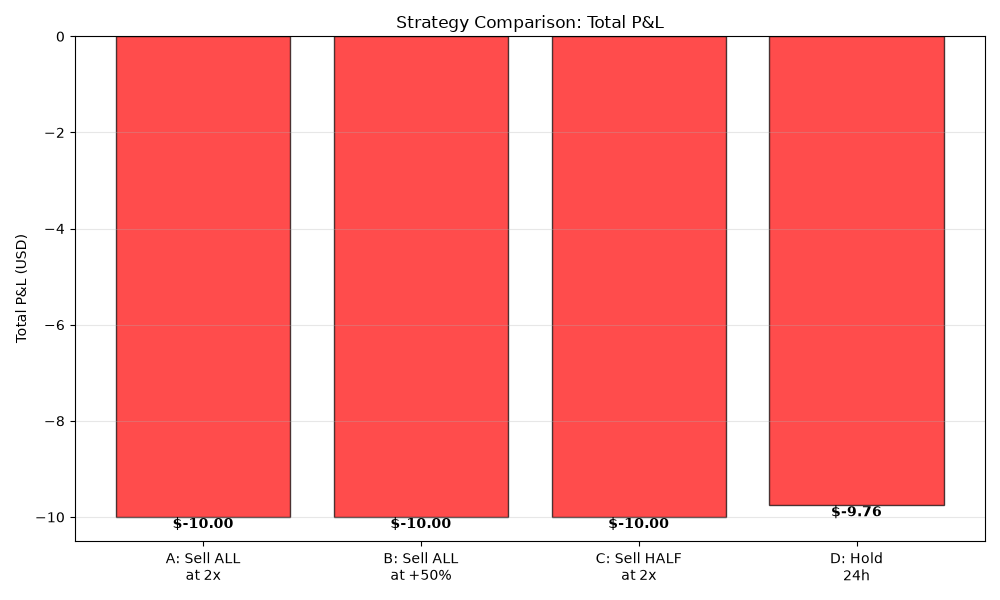
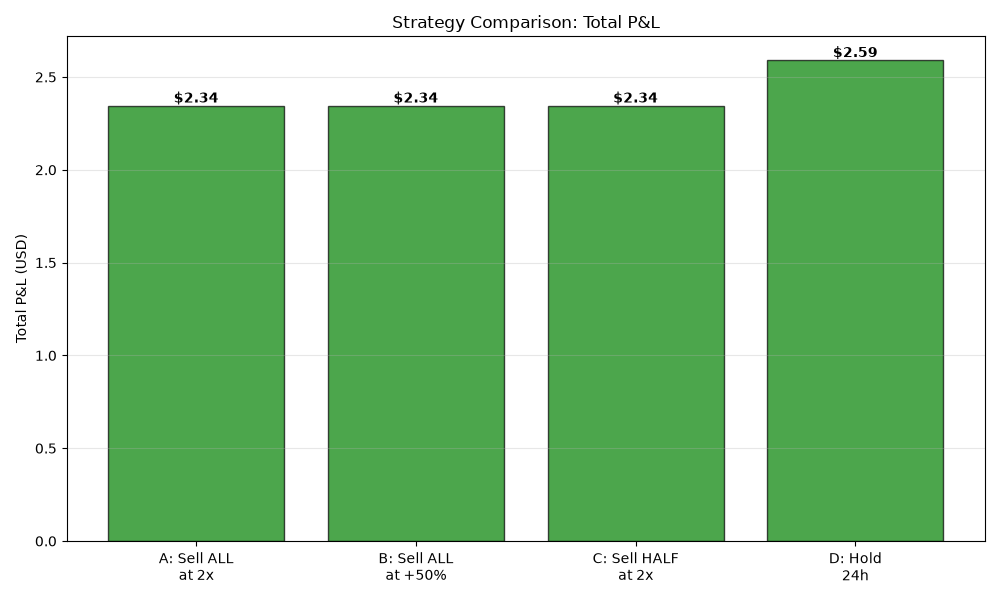
Fix: pump.fun bonding curve tokens incorrectly marked as dead (#2)
ISSUE:
- purr (9oJvYRC...) was marked 'dead' despite being +11% from alert
- Never approached -50% stop loss (min: -1.8%)
- DexScreener reports liq=0 for unmigrated pump.fun tokens
- Dashboard showed -$10 loss instead of actual +$2.34 gain

ROOT CAUSE:
- Status determination only checked liq >= $1k
- Bonding curve tokens always have liq=0 until migration
- Code incorrectly treated liq=0 as 'dead'

FIX:
1. Enhanced fetch_price_pumpfun() to return bonding curve status
2. Check pump.fun API 'complete' flag to detect unmigrated tokens
3. Updated status logic:
   - price=0 anywhere → dead
   - on_bonding_curve=true → active (regardless of liq)
   - price>0 AND liq=0 → active (likely bonding curve, API may have failed)
   - liq >= $1k → active
   - liq > 0 AND < $1k → dead (migrated but dried up)
4. Added regression test verifying bonding curve tokens show correct P&L

RESULT:
- purr now correctly marked 'active' with +$2.34 P&L
- max_multiple: 1.27x (up from incorrect 'dead' status)
- All 10 tests passing including new regression test

diff --git a/dashboard/index.html b/dashboard/index.html
@@ -224,7 +224,7 @@
     <div class="container">
         <header>
             <h1>📊 Memecoin Paper-Trading Dashboard</h1>
-            <p>Last Updated: 2026-10-20 09:57 CEST</p>
+            <p>Last Updated: 2026-10-20 10:01 CEST</p>
         </header>
         
         <div class="warning">
@@ -232,7 +232,7 @@
         </div>
         
         <div class="best-strategy">
-            🏆 Current Best Performer: D: Hold 24h ($-9.76 Total P&L)
+            🏆 Current Best Performer: D: Hold 24h ($2.59 Total P&L)
         </div>
         
         <div class="info-box">
@@ -248,42 +248,42 @@
         <div class="stats">
             <div class="stat-card ">
                 <h3>Strategy A: Sell ALL at 2x</h3>
-                <div class="value loss">
-                    $-10.00
+                <div class="value profit">
+                    $2.34
                 </div>
                 <div class="details">
-                    Win Rate: 0.0%<br>
-                    Avg: $-10.00
+                    Win Rate: 100.0%<br>
+                    Avg: $2.34
                 </div>
             </div>
             <div class="stat-card ">
                 <h3>Strategy B: Sell ALL at +50%</h3>
-                <div class="value loss">
-                    $-10.00
+                <div class="value profit">
+                    $2.34
                 </div>
                 <div class="details">
-                    Win Rate: 0.0%<br>
-                    Avg: $-10.00
+                    Win Rate: 100.0%<br>
+                    Avg: $2.34
                 </div>
             </div>
             <div class="stat-card ">
                 <h3>Strategy C: Sell HALF at 2x</h3>
-                <div class="value loss">
-                    $-10.00
+                <div class="value profit">
+                    $2.34
                 </div>
                 <div class="details">
-                    Win Rate: 0.0%<br>
-                    Avg: $-10.00
+                    Win Rate: 100.0%<br>
+                    Avg: $2.34
                 </div>
             </div>
             <div class="stat-card best">
                 <h3>Strategy D: Hold 24h</h3>
-                <div class="value loss">
-                    $-9.76
+                <div class="value profit">
+                    $2.59
                 </div>
                 <div class="details">
-                    Win Rate: 0.0%<br>
-                    Avg: $-9.76
+                    Win Rate: 100.0%<br>
+                    Avg: $2.59
                 </div>
             </div>
         </div>
@@ -324,10 +324,10 @@
                 <a href="https://dexscreener.com/solana/9oJvYRC2UBLbUShDBnzhNVcJaAffYANPmDHmgf9Lpump" target="_blank">DEX</a>
             </td>
             <td>new</td>
-            <td>1.11x</td>
-            <td class="loss">$-10.00</td>
+            <td>1.27x</td>
+            <td class="profit">$2.34</td>
             <td>$0.00</td>
-            <td>$-10.00</td>
+            <td>$2.34</td>
             <td></td>
             <td></td>
         </tr>

diff --git a/scripts/refresh.py b/scripts/refresh.py
@@ -86,8 +86,11 @@ def fetch_price_geckoterminal(ca: str) -> Optional[Tuple[float, float, float]]:
         return None
 
 
-def fetch_price_pumpfun(ca: str) -> Optional[Tuple[float, float, float]]:
-    """Fetch from pump.fun. Returns (price_usd, mc_usd, liq_usd) or None."""
+def fetch_price_pumpfun(ca: str) -> Optional[Tuple[float, float, float, bool]]:
+    """
+    Fetch from pump.fun. Returns (price_usd, mc_usd, liq_usd, on_bonding_curve) or None.
+    on_bonding_curve=True means token is still on pump.fun and hasn't migrated yet.
+    """
     data = fetch_with_retry(f"{PUMPFUN_BASE}{ca}")
     if not data:
         return None
@@ -96,7 +99,9 @@ def fetch_price_pumpfun(ca: str) -> Optional[Tuple[float, float, float]]:
         price = float(data.get("usd_market_cap", 0)) / float(data.get("total_supply", 1))
         mc = float(data.get("usd_market_cap", 0))
         liq = float(data.get("virtual_sol_reserves", 0)) * 180  # rough SOL price estimate
-        return (price, mc, liq)
+        # Check if still on bonding curve (not migrated to Raydium)
+        on_bonding_curve = not data.get("complete", False)
+        return (price, mc, liq, on_bonding_curve)
     except (ValueError, TypeError, KeyError, ZeroDivisionError):
         return None
 
@@ -138,6 +143,7 @@ def fetch_current_price(ca: str, alert_time: str) -> Dict:
         "current_mc_usd": 0.0,
         "current_liq_usd": 0.0,
         "status": "dead",
+        "on_bonding_curve": False,
     }
     
     print(f"Fetching {ca}...")
@@ -157,12 +163,35 @@ def fetch_current_price(ca: str, alert_time: str) -> Dict:
     if result["current_price_usd"] == 0:
         data = fetch_price_pumpfun(ca)
         if data:
-            result["current_price_usd"], result["current_mc_usd"], result["current_liq_usd"] = data
+            result["current_price_usd"], result["current_mc_usd"], result["current_liq_usd"], result["on_bonding_curve"] = data
+    else:
+        # Even if we got price from DexScreener/GeckoTerminal, check pump.fun for bonding curve status
+        pumpfun_data = fetch_price_pumpfun(ca)
+        if pumpfun_data:
+            # Use pump.fun bonding curve status if available
+            result["on_bonding_curve"] = pumpfun_data[3]
+            # If pump.fun has a price and we're on bonding curve, prefer pump.fun data
+            if result["on_bonding_curve"] and pumpfun_data[0] > 0:
+                result["current_price_usd"] = pumpfun_data[0]
+                result["current_mc_usd"] = pumpfun_data[1]
+                result["current_liq_usd"] = pumpfun_data[2]
     
-    # Determine status
-    if result["current_liq_usd"] >= 1000 and result["current_price_usd"] > 0:
+    # Determine status with proper bonding curve handling
+    if result["current_price_usd"] == 0:
+        # No price data from any source - definitely dead
+        result["status"] = "dead"
+    elif result["on_bonding_curve"]:
+        # Still on pump.fun bonding curve - treat as active regardless of liquidity
+        result["status"] = "active"
+    elif result["current_liq_usd"] == 0 and result["current_price_usd"] > 0:
+        # Has price but no liquidity - likely still on bonding curve (pump.fun API may have failed)
+        # Treat as active until proven otherwise
+        result["status"] = "active"
+    elif result["current_liq_usd"] >= 1000:
+        # Migrated pool with sufficient liquidity
         result["status"] = "active"
     else:
+        # Migrated but liquidity dried up (liq > 0 but < $1k)
         result["status"] = "dead"
     
     return result

diff --git a/tests/test_strategies.py b/tests/test_strategies.py
@@ -169,6 +169,55 @@ class TestDataParsing:
             assert col in alerts[0]
 
 
+class TestBondingCurveHandling:
+    """Test proper handling of pump.fun bonding curve tokens."""
+    
+    def test_bonding_curve_token_not_dead(self):
+        """
+        Regression test: pump.fun bonding curve tokens with liq=0 
+        should be marked as 'active', not 'dead', if they have a price.
+        
+        Bug: purr (9oJvYRC2UBLbUShDBnzhNVcJaAffYANPmDHmgf9Lpump) was 
+        marked dead despite being +11% from alert and still on bonding curve.
+        """
+        # Simulate strategy C with bonding curve token that has:
+        # - liq = 0 (still on bonding curve)
+        # - price went UP (+11%)
+        # - status should be 'active' not 'dead'
+        result = calculate_strategy_c(
+            alert_price=3.036e-05,
+            ath=3.382e-05,  # +11.4% ATH
+            min_price=2.98e-05,  # -1.8% min (nowhere near -50% stop)
+            current_price=3.382e-05,  # +11.4% current
+            status='active'  # Should be active, not dead
+        )
+        
+        # Token went up, should not hit stop
+        assert not result['hit_stop'], "Should not hit -50% stop when price is +11%"
+        assert not result['hit_target'], "Should not hit 2x target at +11%"
+        
+        # Should show unrealized gain, not full loss
+        # Entry: $10 - 2.45% = $9.755 worth of tokens at 3.036e-05 = 321,300 tokens
+        # Mark at 3.382e-05: 321,300 * 3.382e-05 = $10.866
+        # Unrealized P&L: $10.866 - $10 = $0.866
+        assert result['total_pnl'] > 0, f"Should have positive P&L (+11% token), got {result['total_pnl']}"
+        assert result['total_pnl'] > 0.8, f"Expected ~$0.87 gain, got {result['total_pnl']}"
+        
+    def test_dead_token_marks_to_zero(self):
+        """Test that truly dead tokens (migrated, no liq) are handled correctly."""
+        # Migrated token with no liquidity and price near zero
+        result = calculate_strategy_c(
+            alert_price=1.0,
+            ath=1.5,
+            min_price=0.7,
+            current_price=0.0,  # Zero price
+            status='dead'  # Migrated and dead
+        )
+        
+        # Should mark remainder to zero, losing full stake
+        assert result['unrealized_pnl'] == -10.0, "Dead token with zero price should show full loss"
+
+
 class TestFormatting:
     """Test time formatting."""
     

diff --git a/README.md b/README.md
@@ -6,7 +6,7 @@
 
 This dashboard tracks theoretical P&L from Solana memecoin alerts. **No actual trades are executed.**
 
-**Last Updated:** 2026-10-20 09:57 CEST
+**Last Updated:** 2026-10-20 10:01 CEST
 
 ---
 
@@ -18,16 +18,16 @@ All strategies use:
 - **-50% stop-loss** (where applicable)
 - **Conservative ordering**: If both stop and target hit, assume stop hit first
 
-**🏆 Current Best Performer: D: Hold 24h** (Total P&L: $-9.76)
+**🏆 Current Best Performer: D: Hold 24h** (Total P&L: $2.59)
 
 ### Overall Performance
 
 | Strategy | Description | Total Alerts | Total P&L | Win Rate | Avg P&L | Best Trade | Worst Trade |
 |----------|-------------|--------------|-----------|----------|---------|------------|-------------|
-| A: Sell ALL at 2x | Sell all at 2x, -50% stop | 1 | **$-10.00** | 0.0% | $-10.00 | $-10.00 | $-10.00 |
-| B: Sell ALL at +50% | Sell all at 1.5x, -50% stop | 1 | **$-10.00** | 0.0% | $-10.00 | $-10.00 | $-10.00 |
-| C: Sell HALF at 2x | Sell half at 2x, hold rest, -50% stop | 1 | **$-10.00** | 0.0% | $-10.00 | $-10.00 | $-10.00 |
-| ⭐ D: Hold 24h | Hold 24h then sell | 1 | **$-9.76** | 0.0% | $-9.76 | $-9.76 | $-9.76 |
+| A: Sell ALL at 2x | Sell all at 2x, -50% stop | 1 | **$2.34** | 100.0% | $2.34 | $2.34 | $2.34 |
+| B: Sell ALL at +50% | Sell all at 1.5x, -50% stop | 1 | **$2.34** | 100.0% | $2.34 | $2.34 | $2.34 |
+| C: Sell HALF at 2x | Sell half at 2x, hold rest, -50% stop | 1 | **$2.34** | 100.0% | $2.34 | $2.34 | $2.34 |
+| ⭐ D: Hold 24h | Hold 24h then sell | 1 | **$2.59** | 100.0% | $2.59 | $2.59 | $2.59 |
 
 ---
 
@@ -37,25 +37,25 @@ All strategies use:
 
 | Type | Count | Total P&L | Realized | Unrealized | Win Rate | Avg Max Multiple |
 |------|-------|-----------|----------|------------|----------|------------------|
-| new | 1 | $-10.00 | $0.00 | $-10.00 | 0.0% | 1.11x |
+| new | 1 | $2.34 | $0.00 | $2.34 | 100.0% | 1.27x |
 
 ### Strategy B: Sell ALL at +50%
 
 | Type | Count | Total P&L | Realized | Unrealized | Win Rate | Avg Max Multiple |
 |------|-------|-----------|----------|------------|----------|------------------|
-| new | 1 | $-10.00 | $0.00 | $-10.00 | 0.0% | 1.11x |
+| new | 1 | $2.34 | $0.00 | $2.34 | 100.0% | 1.27x |
 
 ### Strategy C: Sell HALF at 2x
 
 | Type | Count | Total P&L | Realized | Unrealized | Win Rate | Avg Max Multiple |
 |------|-------|-----------|----------|------------|----------|------------------|
-| new | 1 | $-10.00 | $0.00 | $-10.00 | 0.0% | 1.11x |
+| new | 1 | $2.34 | $0.00 | $2.34 | 100.0% | 1.27x |
 
 ### Strategy D: Hold 24h
 
 | Type | Count | Total P&L | Win Rate | Avg Max Multiple |
 |------|-------|-----------|----------|------------------|
-| new | 1 | $-9.76 | 0.0% | 1.11x |
+| new | 1 | $2.59 | 100.0% | 1.27x |
 
 ---
 
